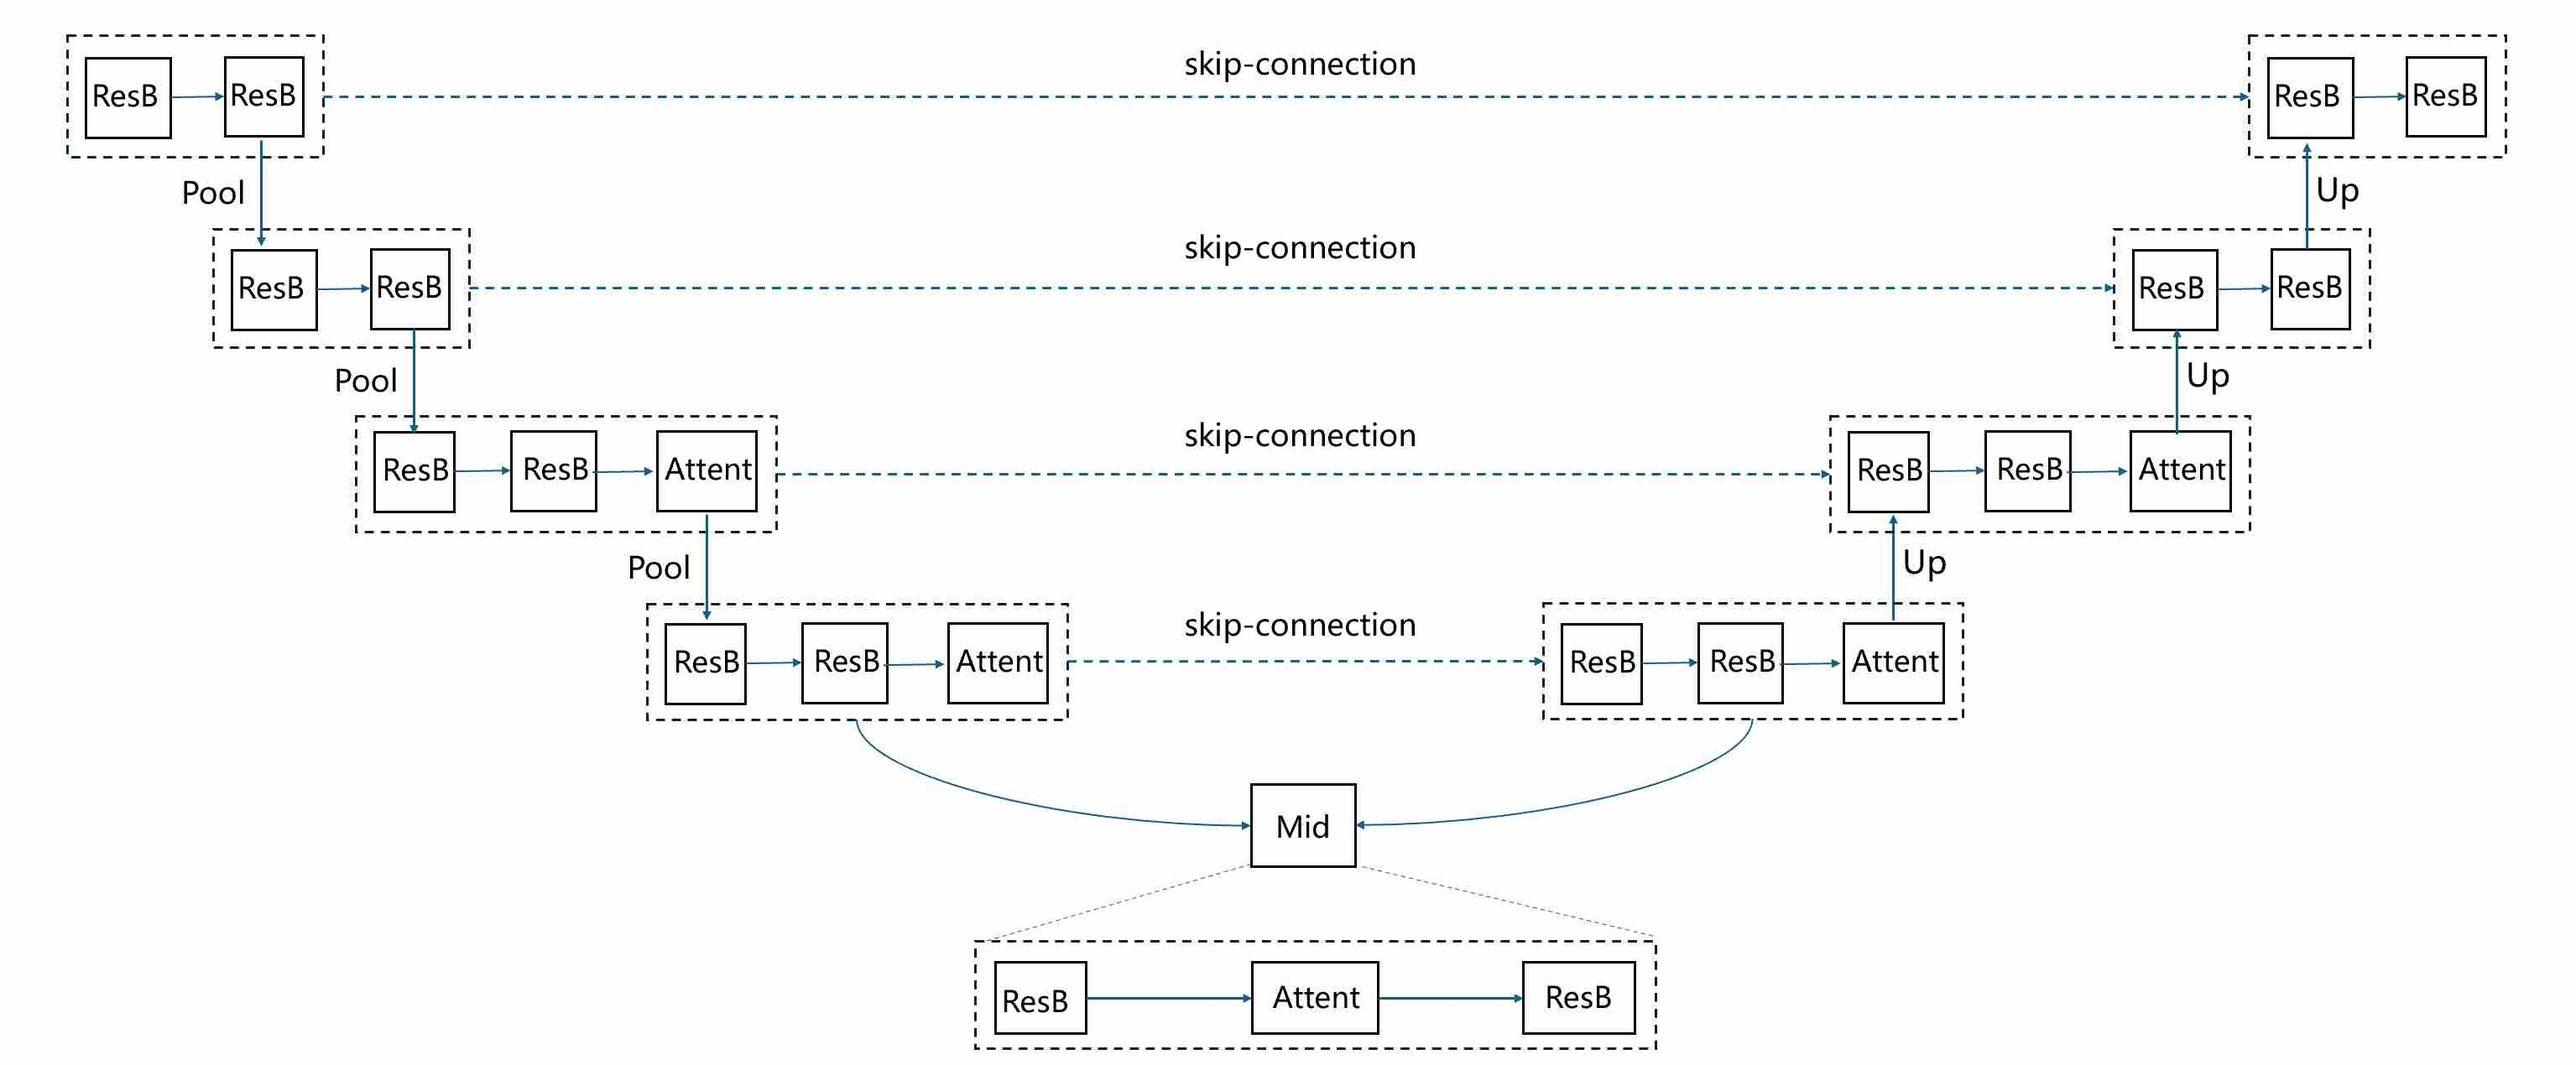
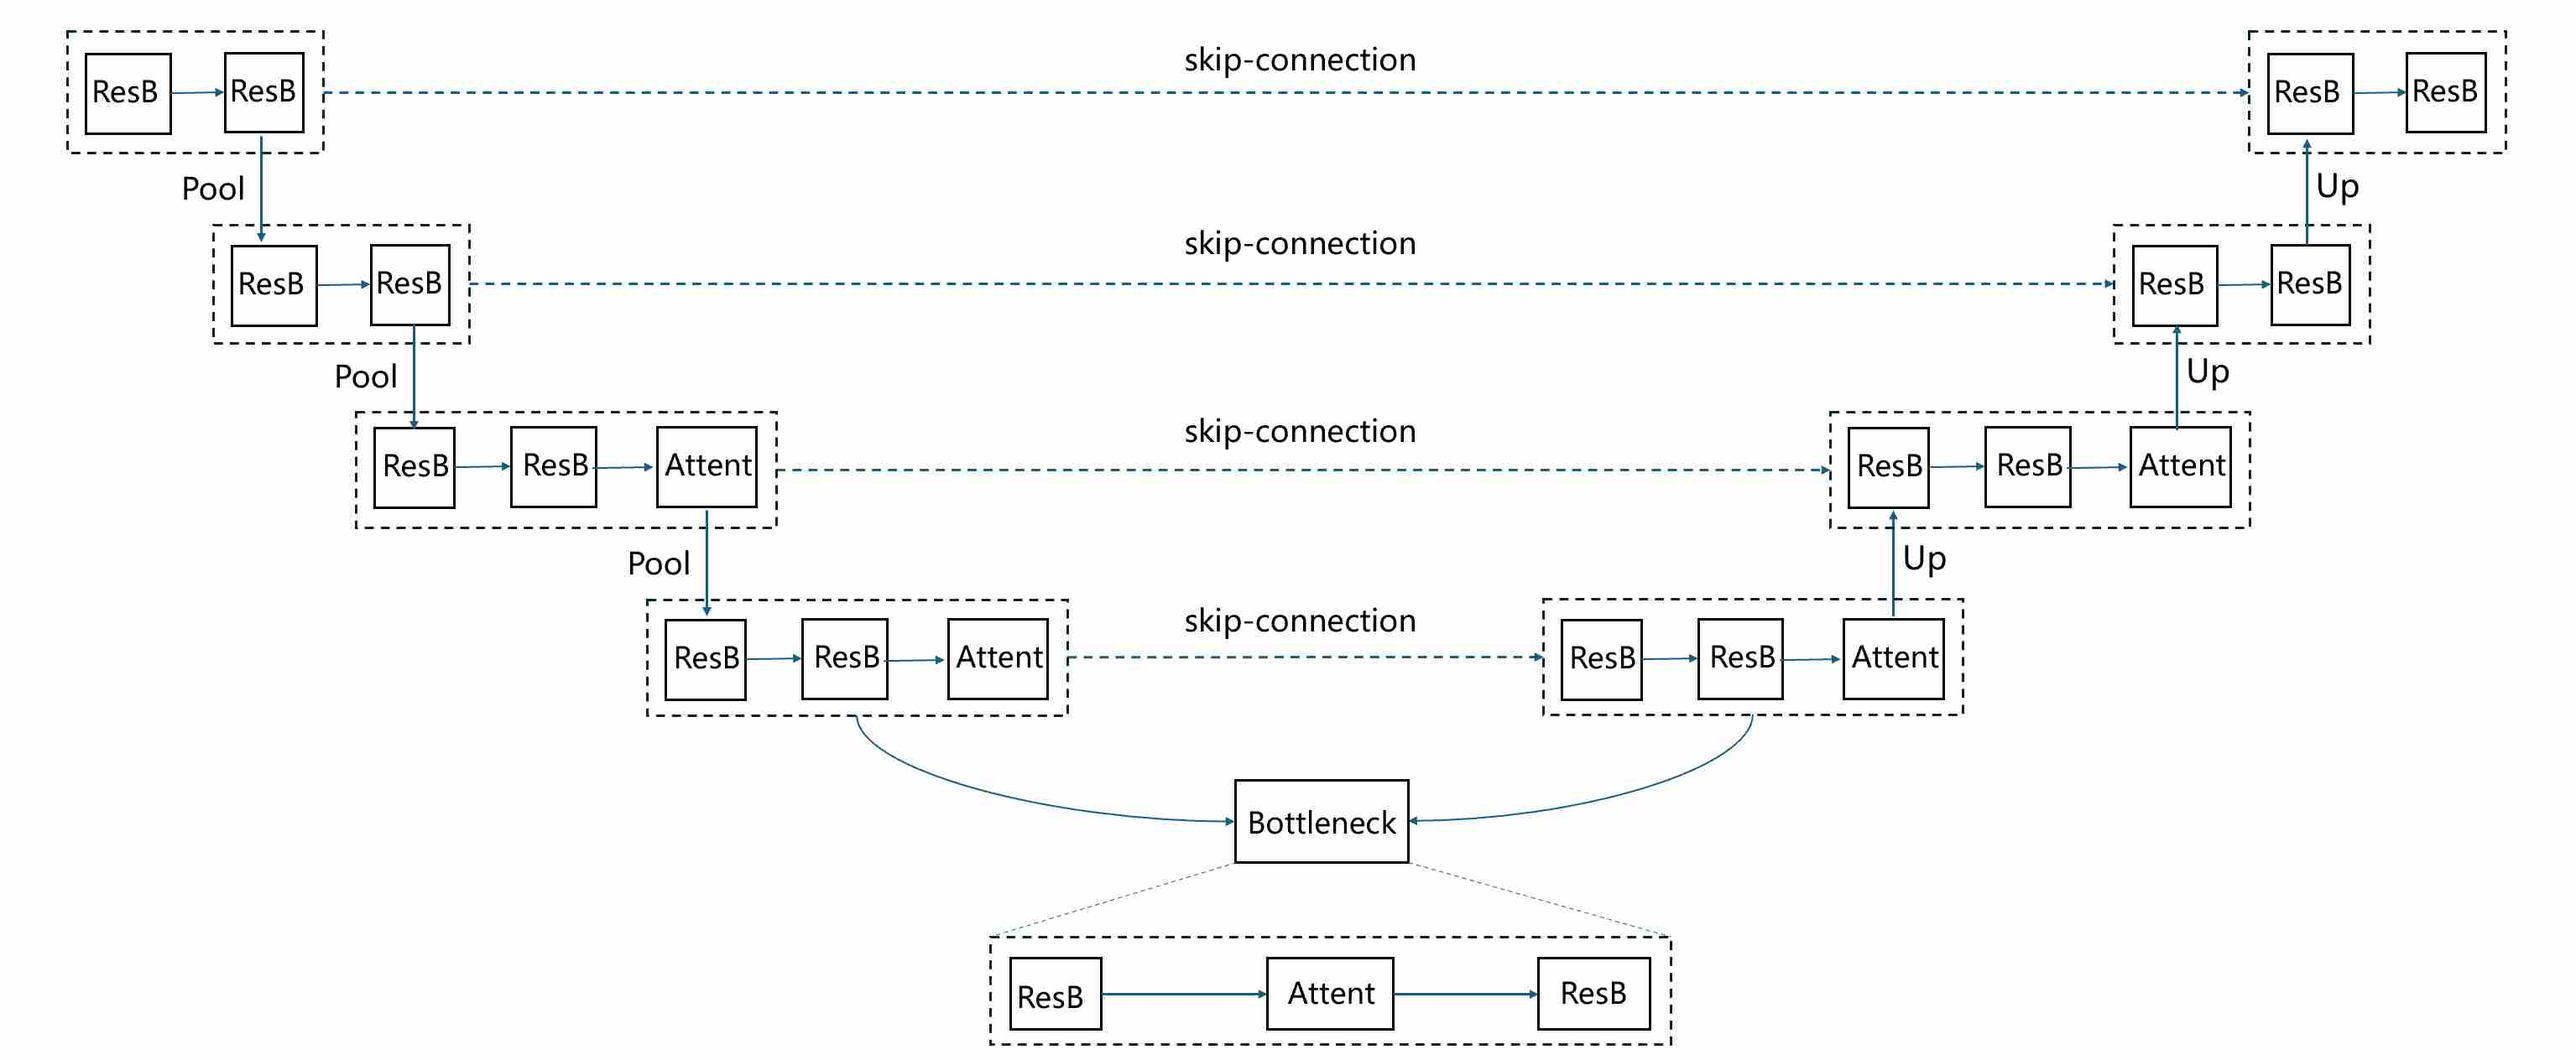
update

diff --git a/_posts/2025-03-02-blog-post.md b/_posts/2025-03-02-blog-post.md
@@ -136,6 +136,8 @@ The **U-Net architecture** [^unet] is the canonical backbone of early diffusion 
 
 ![U-Net architecture](/images/posts/2025-03-02-blog-post/unet.jpg)
 
+where **ResB** represents residual block, **Attent** represents self-Attention block.
+
 ### Encoder: From Local Features to Global Context
 
 The **encoder path** consists of repeated **convolutional residual blocks** and **downsampling operations** (e.g., strided convolutions or pooling). As the spatial resolution decreases and channel width expands, the network progressively shifts its representational emphasis:
